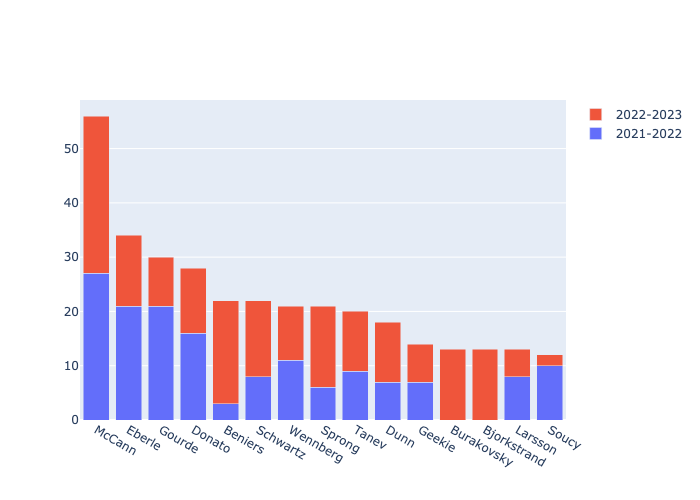
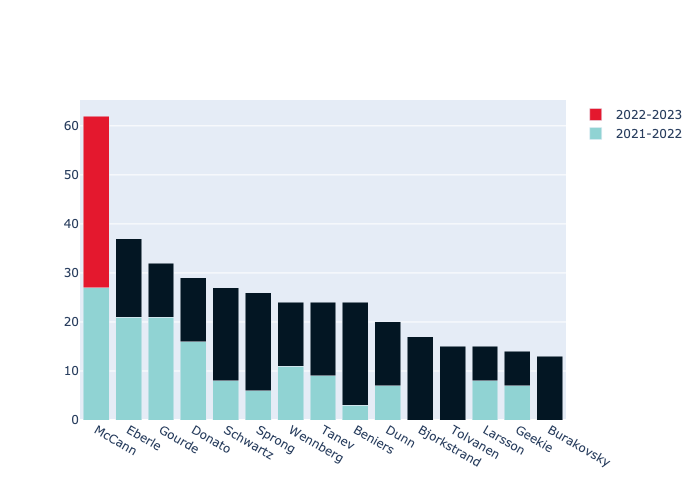
Main chart function has been written, works well for additive skaters stats for now.

diff --git a/main.py b/main.py
@@ -4,10 +4,24 @@ import pandas as pd
 import glob
 from pathlib import Path
 import kaleido
+
+# Data Source: https://www.hockey-reference.com/teams/SEA
 # https://stackoverflow.com/questions/20625582/how-to-deal-with-settingwithcopywarning-in-pandas
 pd.options.mode.chained_assignment = None
+light_blue = [144,211,211]
+red = [228,24,46]
+red_rgb = "rgb(228,24,46)"
+dark_blue = [3,22,35]
+def get_color_spectrum(n, color1, color2, number_bands=15):
+    colorname = f"rgb({int(color1[0] + n * (color2[0] - color1[0]) / (number_bands - 1))}" \
+            + f",{int(color1[1] + n * (color2[1] - color1[1]) / (number_bands - 1))}" \
+            + f",{int(color1[2] + n * (color2[2] - color1[2]) / (number_bands - 1))})"
+    #print(colorname)
+    return colorname
 
 
+# Load citizenship data
+flags = pd.read_csv("flags.csv", header=0)
 
 # Load each season data
 data = []
@@ -20,6 +34,7 @@ for f in sorted(glob.glob("season*.csv")):
     #print(data[-1]["GWG"])
 stacked_df = pd.concat(df.assign(Season = season) for df, season in zip(data, seasons)).reset_index(drop=True)
 
+number_seasons = len(seasons)
 # Build list of unique players
 list_players = stacked_df.Player.unique().tolist()
 # For each player, add an entry for their career total
@@ -36,7 +51,7 @@ for p in list_players:
         total_row.loc["Player"] = p
         total_row.loc["Season"] = "Total"
         total_row.loc["Age"] = stacked_df.loc[stacked_df.Player == p].shape[0]
-        total_row.loc["Flag"] = stacked_df.loc[stacked_df.Player == p].iloc[0]["Flag"]
+        total_row.loc["Flag"] = flags.loc[flags.Player == p].iloc[0]["Flag"]
         total_row.loc["url"] = stacked_df.loc[stacked_df.Player == p].iloc[0]["url"]
         total_row.loc["Pos"] = stacked_df.loc[stacked_df.Player == p].iloc[0]["Pos"]
         if total_row.loc["G"] == 0:
@@ -50,35 +65,83 @@ for p in list_players:
             total_row.loc["FO%"] = total_row.loc["FOW"] / (total_row.loc["FOW"] + total_row.loc["FOL"]) * 100
         stacked_df = pd.concat([stacked_df, total_row.to_frame().T]).reset_index(drop=True)
 
-# TOP 10 goal scorers
-top_goalscorers = stacked_df.loc[stacked_df.Season == "Total"].sort_values("G", ascending=False).iloc[:15][['Player', 'Flag', 'G']]
-fig = go.Figure()
-fig = px.bar(top_goalscorers, y='G', x='Player')
-fig.show()
-fig.write_image("top_goalscorers.png")
+stacked_df["PlayerAndFlag"] = stacked_df["Player"] + stacked_df["Flag"]
 
-#for p in top_goalscorers.Player:
-#    print(p, [s for s in stacked_df.loc[stacked_df.Player == p].Season])
-def get_goals(df,p,s):
+
+def get_stat(df, p, s, stat):
+    """
+
+    :param df: database
+    :param p: player
+    :param s: season
+    :param stat: stat
+    :return: return the stat value for the player and season specified
+    """
     try:
-        return df[(df.Player == p) & (df.Season == s)].G.values[0]
+        return df[(df.Player == p) & (df.Season == s)][stat].values[0]
     except IndexError:
         return 0
-# Maybe I should think about setting a different index for the subset dfs
-fig = go.Figure()
-names = [p.split()[-1] for p in top_goalscorers.Player]
-for s in seasons:
-    goals = [get_goals(stacked_df,p,s) for p in top_goalscorers.Player]
-    # goals = []
-    # for p in top_goalscorers.Player:
-    #     print(p)
-    #     goals.append(stacked_df[(stacked_df.Player == p) & (stacked_df.Season == s)].G.values[0] )
-    if s != 'Total':
-        fig.add_trace(go.Bar(name=s, x=names, y=goals))
+def plotAlltimeLeaders(stat, statName, num, singleSeasonRecord, team):
+    """
 
-fig.update_layout(barmode='stack')
-fig.show()
-fig.write_image("top_goalscorers_stacked.png")
+    :param stat: statistic to chart
+    :param num: number of players we want to include
+    :param singleSeasonRecord: single season record for the stat of interest
+    :return:
+    """
+
+
+    top_leaders = stacked_df.loc[stacked_df.Season == "Total"].sort_values(stat, ascending=False).iloc[:num][['Player', 'Flag', stat]].reset_index(drop=True)
+
+    # Basic plot
+    # fig = go.Figure()
+    # fig = px.bar(top_leaders, y=stat, x='Player')
+    # fig.write_image("top_goalscorers.png")
+
+    # for p in top_goalscorers.Player:
+    #    print(p, [s for s in stacked_df.loc[stacked_df.Player == p].Season])
+
+    # Maybe I should think about setting a different index for the subset dfs
+    fig = go.Figure()
+    names = [p.split()[-1] for p in top_leaders.Player]
+
+    for n, s in enumerate(seasons):
+        stats = [get_stat(stacked_df, p, s, stat) for p in top_leaders.Player]
+        print(stats[5])
+        if s != 'Total':
+            colors = [red_rgb if st == single_season_records[stat] \
+                        else get_color_spectrum(n,light_blue,dark_blue,number_seasons) for st in stats]
+            fig.add_trace(go.Bar(name=s, x=names, y=stats,
+                                 marker_color=colors,
+                                 )
+                          )
+
+    fig.update_layout(barmode='stack')
+    fig.update_layout(title_text=f"{team} All-Time Leaders in {statName}")
+    #fig.show()
+    fig.write_image(f"top_leaders_{stat}_stacked.png")
+
+team = "Seattle Kraken"
+statName = {"GP": "Games Played",
+            "G": "Goals Scored",
+            "A": "Assists",
+            "PTS": "Points Scored",
+            "PIM": "Penalty Minutes",
+            "EVG": "Even-Strength Goals",
+            "PPG": "Powerplay Goals",
+            "SHG": "Short-handed Goals",
+            "GWG": "Game-Winnning Goals",
+            "EVA": "Even-Strength Assists",
+            "PPA": "Powerplay Assists",
+            "SHA": "Short-handed Assists",
+            "S": "Shots On Goal",
+            "BLK": "Blocked Shots",
+            "HIT": "Hits"
+            }
+single_season_records = {}
+for stat in ["GP", "G", "A", "PTS", "PIM", "EVG", "PPG", "SHG", "GWG", "EVA", "PPA", "SHA", "S", "BLK", "HIT"]:
+    single_season_records[stat] = stacked_df[stacked_df.Season != 'Total'][stat].max()
+    plotAlltimeLeaders(stat, statName[stat], 15, single_season_records[stat], team)
 # TODO
 ## Use better flags like https://github.com/hampusborgos/country-flags
 ## or https://github.com/google/region-flags
